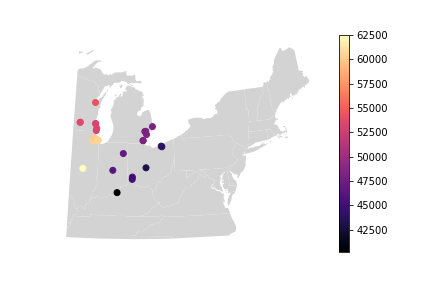
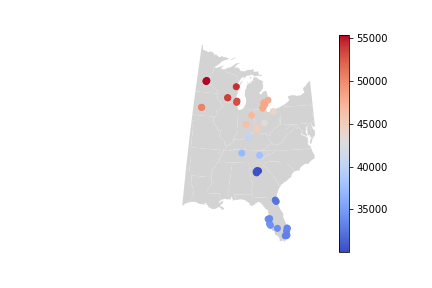
p5 release

Changed region(s): [[0.1505, 0.1562, 0.7523, 0.8438], [0.7824, 0.0938, 0.9028, 0.875], [0.1806, 0.1562, 0.2106, 0.1875]]

diff --git a/p5/README.md b/p5/README.md
@@ -1,7 +1,7 @@
 # P5: EDGAR Web Logs
 
 ## Corrections/Clarifications
-* fixed incorrect 00 date (Yiyin, Apr 5). Please do a `git pull` to obtain the updated tester. 
+* None yet
 
 ## Overview
 
@@ -297,16 +297,16 @@ Additional requirements:
 * crop to the following lat/lon bounds:
 
 ```python
-west = -90
+west = -95
 east = -75
 north = 50
-south = 37
+south = 25
 ```
 
 * use a Mercator projection, "epsg:2022"
 * the color of each point should indicate the postal code. For example, the postal code of `245 SUMMER STREET\nBOSTON MA 02210` is `2210`. If it's in the form like `53705-1234`, only take `53705`. If it's neither 5 digits number nor 9 digits number, don't use the point.
 * only show the street with a postal code from 30000 to 60000
-* use the "magma" colormap, with a colorbar
+* use the "coolwarm" colormap, with a colorbar
 * the color of background is "lightgray"
 
 The result should look similar to this:
